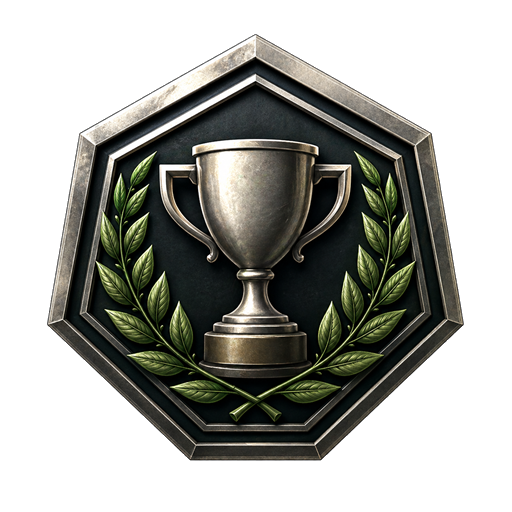
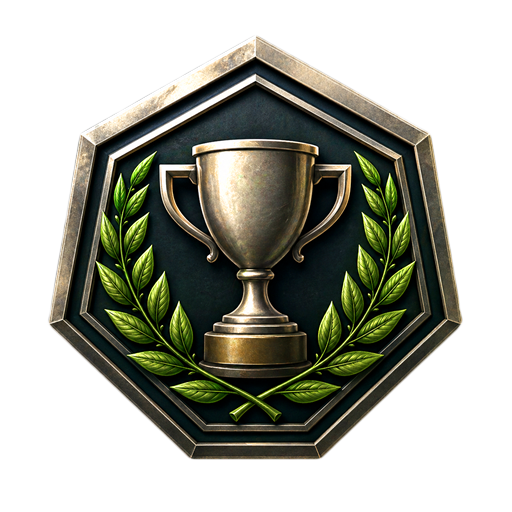
Add hardcore success visuals to OBS overlay
Support hardcore-earned successes in OBS overlay and adjust visuals.

- Expose EstHardcore on SuccesExportObs to signal hardcore state.
- MainWindow: make ConstruireSuccesObs instance method and set EstHardcore by checking _succesJeuCourant via new SuccesCourantEstReussiEnHardcore helper.
- overlay.js: read succesCourant.estHardcore and toggle .hardcore class on the success block.
- overlay.scss: add hardcore-specific variables, emblems and extensive style/gradient updates for normal and hardcore rendering.
- Add new asset succes-embleme-hardcore.png and update succes-embleme.png visuals.
- ServiceExportObs: add path constant and write out the new hardcore emblem when exporting overlay assets.

These changes allow rendering a distinct hardcore appearance in the OBS overlay without persisting visual state.

diff --git a/RA.Compagnon/ObsOverlay/overlay.scss b/RA.Compagnon/ObsOverlay/overlay.scss
@@ -71,6 +71,7 @@
   --toolbar-rayon: var(--rayon-or-moyen);
   --toolbar-bouton-rayon: var(--rayon-or-petit);
   --image-embleme-succes: url("succes-embleme.png");
+  --image-embleme-succes-hardcore: url("succes-embleme-hardcore.png");
 }
 
 body.obs-mode {
@@ -214,11 +215,24 @@ main {
   background:
     linear-gradient(
       to top,
-      rgba(5, 22, 7, 0.9) 0%,
-      rgba(5, 22, 7, 0.72) 28%,
-      rgba(5, 22, 7, 0.24) 46%,
-      rgba(5, 22, 7, 0) 50%,
-      rgba(5, 22, 7, 0) 100%
+      rgba(3, 14, 5, 0.96) 0%,
+      rgba(5, 22, 7, 0.86) 20%,
+      rgba(8, 34, 11, 0.48) 42%,
+      rgba(14, 53, 18, 0.08) 58%,
+      rgba(14, 53, 18, 0) 72%
+    ),
+    radial-gradient(
+      ellipse at 78% 48%,
+      rgba(119, 181, 88, 0.28) 0%,
+      rgba(67, 168, 42, 0.18) 22%,
+      rgba(14, 53, 18, 0.1) 43%,
+      rgba(14, 53, 18, 0) 68%
+    ),
+    linear-gradient(
+      138deg,
+      rgba(0, 51, 102, 0.24) 0%,
+      rgba(14, 53, 18, 0.2) 44%,
+      rgba(6, 28, 9, 0.34) 100%
     ),
     #0e3512;
   --badge-succes-courant-taille-actuelle: var(--badge-succes-courant-taille);
@@ -240,31 +254,87 @@ main {
     background-position: right 50%;
     background-repeat: no-repeat;
     background-size: 50%;
-    opacity: 0.9;
-    transform: scale(1);
-    filter: blur(0.35px);
+    opacity: 0.96;
+    transform: scale(1.02);
+    filter: drop-shadow(0 0 18px rgba(119, 181, 88, 0.28)) blur(0.22px);
   }
 
   &::after {
     background:
       linear-gradient(
         135deg,
-        rgba(16, 18, 24, 0.78),
-        rgba(16, 18, 24, 0.62)
+        rgba(10, 14, 18, 0.84) 0%,
+        rgba(10, 16, 18, 0.62) 45%,
+        rgba(10, 18, 12, 0.44) 100%
       ),
       radial-gradient(
-        circle at 22% 58%,
-        rgba(255, 255, 255, 0.045) 0%,
-        rgba(255, 255, 255, 0.02) 16%,
-        rgba(255, 255, 255, 0) 40%
+        ellipse at 24% 58%,
+        rgba(255, 255, 255, 0.062) 0%,
+        rgba(255, 255, 255, 0.026) 20%,
+        rgba(255, 255, 255, 0) 48%
       ),
       radial-gradient(
-        circle at 78% 20%,
-        rgba(67, 168, 42, 0.075) 0%,
-        rgba(67, 168, 42, 0.025) 18%,
-        rgba(67, 168, 42, 0) 42%
+        ellipse at 82% 24%,
+        rgba(119, 181, 88, 0.16) 0%,
+        rgba(67, 168, 42, 0.072) 22%,
+        rgba(67, 168, 42, 0) 52%
       );
-    opacity: 0.85;
+    opacity: 0.9;
+  }
+
+  &.hardcore {
+    background:
+      linear-gradient(
+        to top,
+        rgba(44, 25, 0, 0.98) 0%,
+        rgba(88, 55, 5, 0.86) 22%,
+        rgba(178, 123, 31, 0.48) 44%,
+        rgba(236, 190, 86, 0.14) 60%,
+        rgba(236, 190, 86, 0) 74%
+      ),
+      radial-gradient(
+        ellipse at 78% 48%,
+        rgba(255, 218, 118, 0.42) 0%,
+        rgba(212, 157, 48, 0.26) 24%,
+        rgba(102, 66, 8, 0.14) 46%,
+        rgba(14, 53, 18, 0) 70%
+      ),
+      linear-gradient(
+        138deg,
+        rgba(0, 51, 102, 0.18) 0%,
+        rgba(117, 77, 12, 0.28) 44%,
+        rgba(46, 27, 2, 0.38) 100%
+      ),
+      #4a3006;
+  }
+
+  &.hardcore::before {
+    background-image: var(--image-embleme-succes-hardcore);
+    opacity: 1;
+    filter: drop-shadow(0 0 22px rgba(255, 218, 118, 0.42)) blur(0.18px);
+  }
+
+  &.hardcore::after {
+    background:
+      linear-gradient(
+        135deg,
+        rgba(15, 12, 7, 0.84) 0%,
+        rgba(30, 22, 8, 0.62) 45%,
+        rgba(64, 42, 7, 0.44) 100%
+      ),
+      radial-gradient(
+        ellipse at 24% 58%,
+        rgba(255, 239, 184, 0.078) 0%,
+        rgba(255, 239, 184, 0.032) 20%,
+        rgba(255, 239, 184, 0) 48%
+      ),
+      radial-gradient(
+        ellipse at 82% 24%,
+        rgba(255, 218, 118, 0.22) 0%,
+        rgba(212, 157, 48, 0.1) 24%,
+        rgba(212, 157, 48, 0) 54%
+      );
+    opacity: 0.92;
   }
 }
 

diff --git a/RA.Compagnon/ObsOverlay/overlay.js b/RA.Compagnon/ObsOverlay/overlay.js
@@ -1422,6 +1422,7 @@ function appliquerEtat(etat) {
   const imageFond = normaliserUrlImageJeu(etat?.jeu?.image);
   const iconeConsole = normaliserUrlImageJeu(etat?.jeu?.imageConsole);
   const imageBadgeSuccesCourant = normaliserUrlImageJeu(etat?.succesCourant?.badge);
+  const succesCourantHardcore = !!etat?.succesCourant?.estHardcore;
 
   document.getElementById("jeu").textContent = etat?.jeu?.titre || "Aucun jeu";
   document.getElementById("progression").textContent = progression;
@@ -1431,6 +1432,7 @@ function appliquerEtat(etat) {
   document.getElementById("description").textContent = etat?.succesCourant?.description || "";
   badgeSuccesCourant.src = imageBadgeSuccesCourant;
   badgeSuccesCourant.style.visibility = imageBadgeSuccesCourant ? "visible" : "hidden";
+  document.getElementById("succes-bloc")?.classList.toggle("hardcore", succesCourantHardcore);
   appliquerGrilleSucces(etat?.grilleSuccesJeu);
   enteteBloc.style.setProperty(
     "--image-fond-entete",

diff --git a/RA.Compagnon/MainWindow.Obs.cs b/RA.Compagnon/MainWindow.Obs.cs
@@ -338,7 +338,7 @@ public partial class MainWindow
     /*
      * Convertit le succès mis en avant vers la forme publique OBS.
      */
-    private static SuccesExportObs ConstruireSuccesObs(EtatSuccesAfficheLocal? succes)
+    private SuccesExportObs ConstruireSuccesObs(EtatSuccesAfficheLocal? succes)
     {
         if (succes is null)
         {
@@ -354,7 +354,20 @@ public partial class MainWindow
             DetailsPoints = succes.DetailsPoints,
             DetailsFaisabilite = succes.DetailsFaisabilite,
             Badge = succes.CheminImageBadge,
+            EstHardcore = SuccesCourantEstReussiEnHardcore(succes),
         };
+    }
+
+    /*
+     * Détermine si le succès actuellement mis en avant a été obtenu en mode
+     * hardcore, afin d'adapter le rendu OBS sans persister un état visuel.
+     */
+    private bool SuccesCourantEstReussiEnHardcore(EtatSuccesAfficheLocal succes)
+    {
+        return _succesJeuCourant.Any(item =>
+            item.Id == succes.IdentifiantSucces
+            && !string.IsNullOrWhiteSpace(item.DateEarnedHardcore)
+        );
     }
 
     /*

diff --git a/RA.Compagnon/Services/ServiceExportObs.cs b/RA.Compagnon/Services/ServiceExportObs.cs
@@ -41,6 +41,9 @@ public sealed class ServiceExportObs
     public static string CheminOverlaySuccesEmblemePng =>
         Path.Combine(DossierExportObs, "succes-embleme.png");
 
+    public static string CheminOverlaySuccesEmblemeHardcorePng =>
+        Path.Combine(DossierExportObs, "succes-embleme-hardcore.png");
+
     public static string CheminLayoutJson => Path.Combine(DossierExportObs, "layout.json");
 
     private static string DossierModelesOverlay =>
@@ -196,6 +199,11 @@ public sealed class ServiceExportObs
         await EcrireOctetsAsync(
             CheminOverlaySuccesEmblemePng,
             LireModeleOverlayBinaire("succes-embleme.png"),
+            jetonAnnulation
+        );
+        await EcrireOctetsAsync(
+            CheminOverlaySuccesEmblemeHardcorePng,
+            LireModeleOverlayBinaire("succes-embleme-hardcore.png"),
             jetonAnnulation
         );
     }

diff --git a/RA.Compagnon/Modeles/Obs/EtatExportObs.cs b/RA.Compagnon/Modeles/Obs/EtatExportObs.cs
@@ -87,6 +87,8 @@ public sealed class SuccesExportObs
     public string DetailsFaisabilite { get; init; } = string.Empty;
 
     public string Badge { get; init; } = string.Empty;
+
+    public bool EstHardcore { get; init; }
 }
 
 /*
